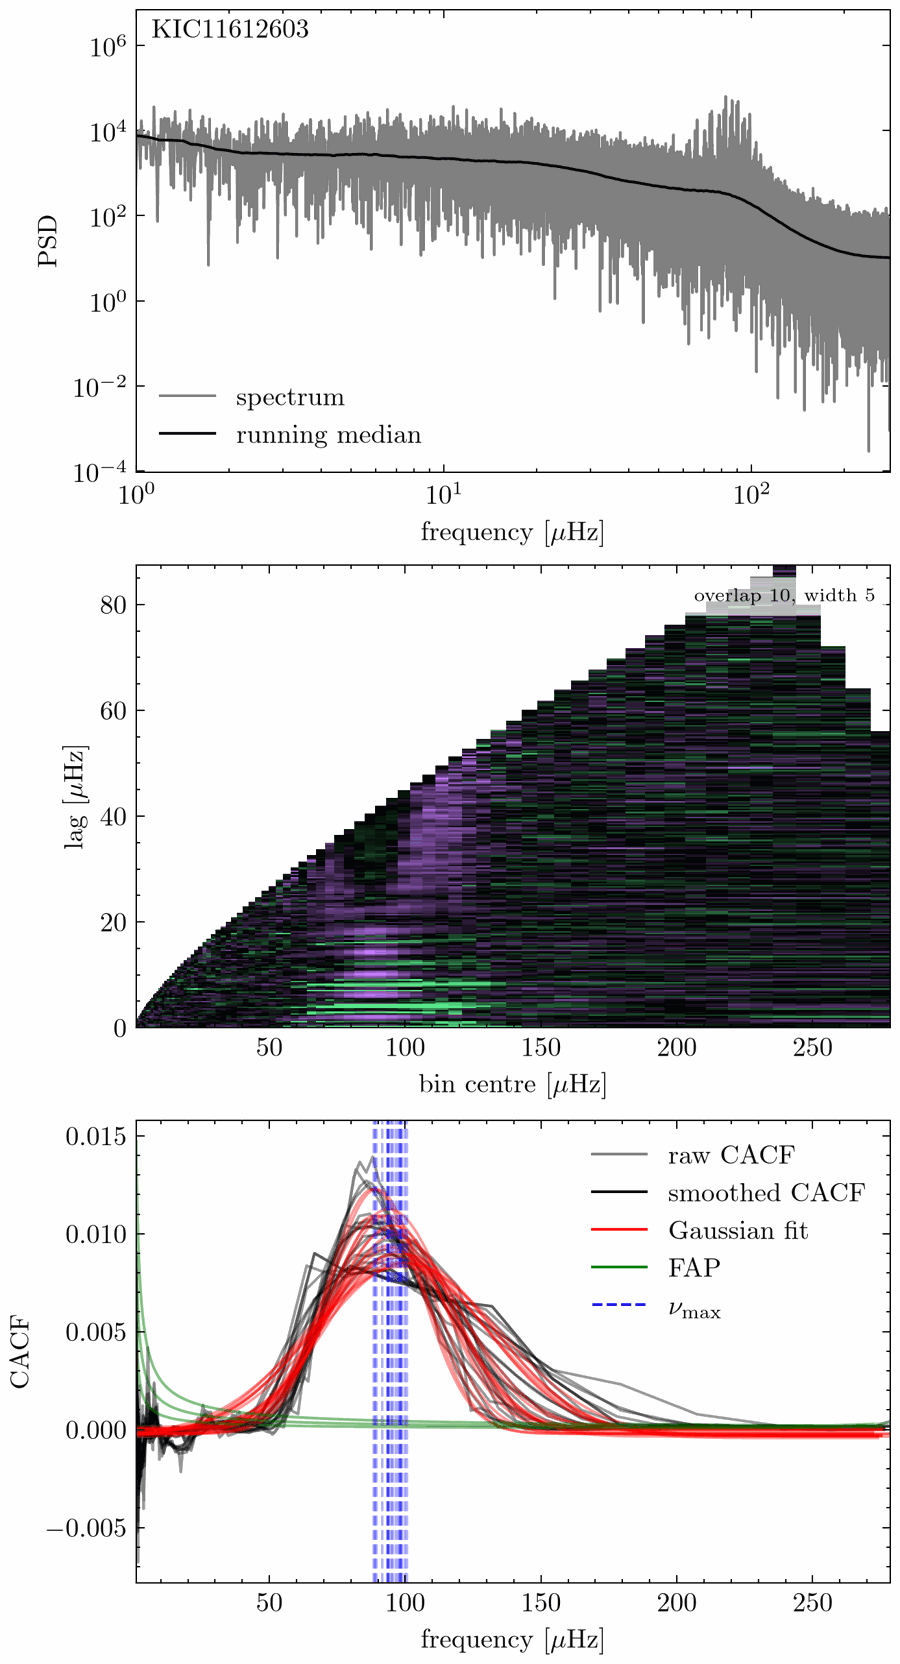
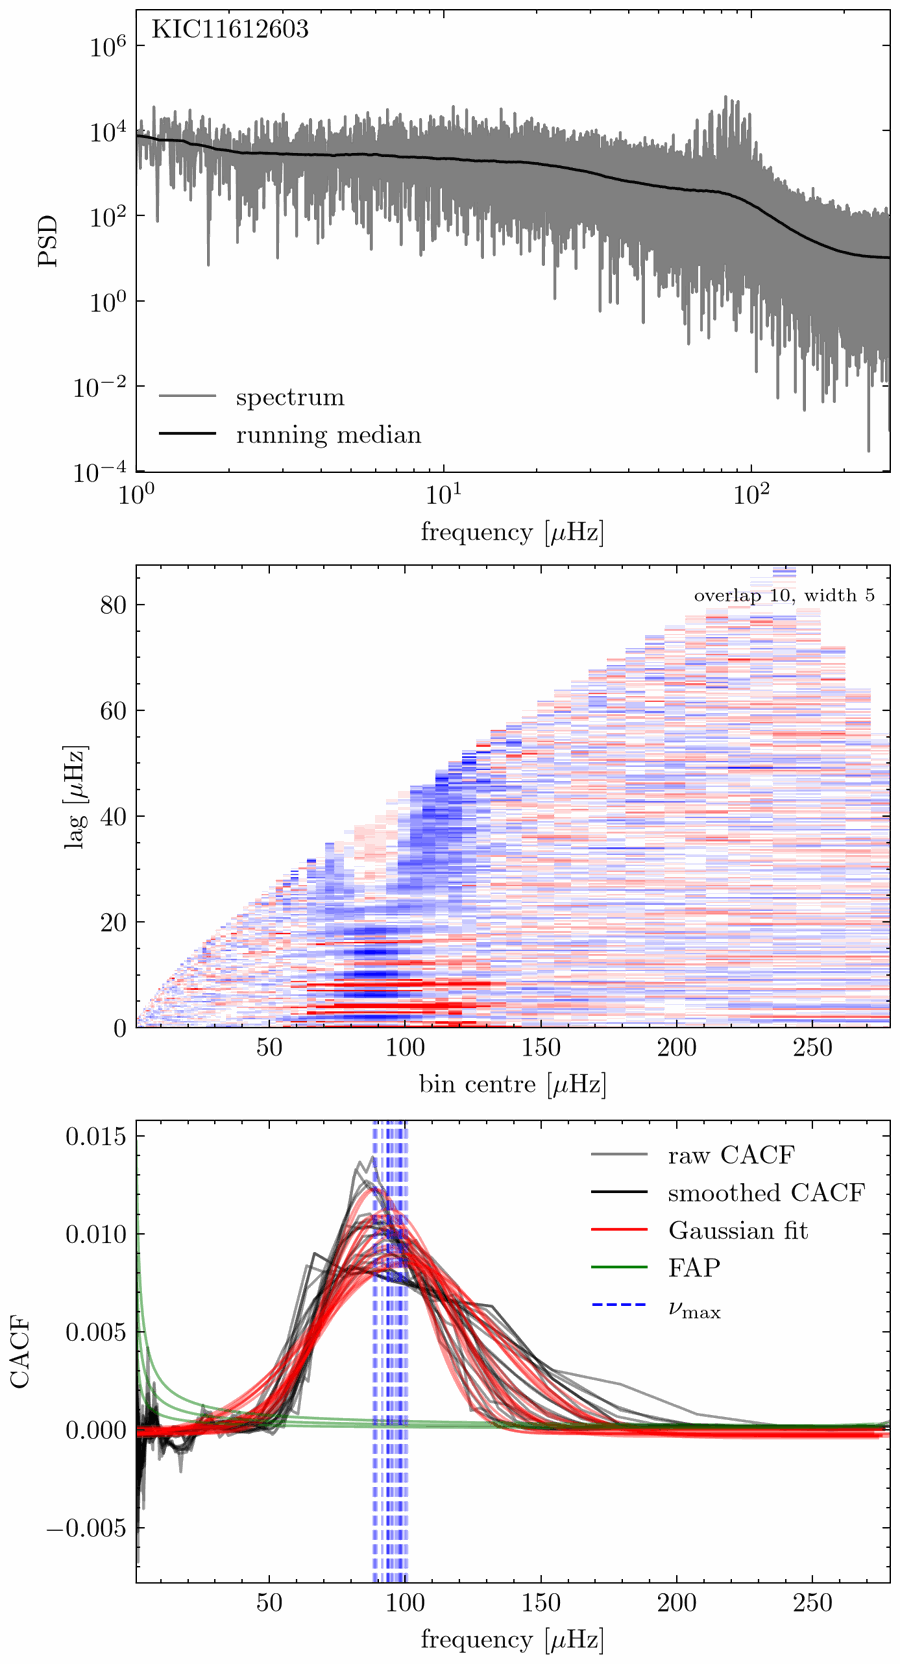
delta_nu: dnu_window_mode (relative | fixed band widths); 2D ACF back to bwr
- dnu_window_mode "fixed": band m covers (m +- dnu_window) Delta-nu, the same width for
  every band; "relative" (default): (1 +- dnu_window) m Delta-nu
- band_edges() shared by the lag ranges and the plot
- 2D ACF colour map bwr; band edges dotted in black
- README example figures regenerated

Changed region(s): [[0.1556, 0.3438, 0.9956, 0.625]]

diff --git a/src/numax_proxies/methods/acf.py b/src/numax_proxies/methods/acf.py
@@ -132,24 +132,43 @@ def cacf_delta_nu_in_windows(power, idx_start, idx_end, k_lo, k_hi):
     return stat, null_mean, null_sd
 
 
-def delta_nu_lag_ranges(centres, frequency, window, multiples):
-    """Lag bands within +- window x m x Delta-nu(bin centre) of m x Delta-nu.
+def band_edges(multiples, window, mode="relative"):
+    """Lower and upper edge of every lag band, in units of Delta-nu(bin centre).
+
+    Args:
+        multiples: multiples m of Delta-nu.
+        window: half-width; fraction of m x Delta-nu ("relative") or of Delta-nu ("fixed").
+        mode: "relative" -> (1 -+ window) m; "fixed" -> m -+ window.
+
+    Returns:
+        (lo, hi) arrays, sorted by m, before trimming of overlaps.
+    """
+    m = np.sort(np.asarray(multiples, dtype=float))
+    if mode == "fixed":
+        return m - window, m + window
+    return m * (1 - window), m * (1 + window)
+
+
+def delta_nu_lag_ranges(centres, frequency, window, multiples, mode="relative"):
+    """Lag bands around m x Delta-nu(bin centre), in frequency points.
 
     Bands that would overlap are trimmed so that no lag is in two bands.
 
     Args:
         centres: bin centres [muHz].
         frequency: frequency grid [muHz] (uniform).
-        window: half-width as a fraction of m x Delta-nu.
-        multiples: multiples m of Delta-nu (ascending).
+        window: half-width; fraction of m x Delta-nu ("relative") or of Delta-nu ("fixed").
+        multiples: multiples m of Delta-nu.
+        mode: "relative" or "fixed" (see band_edges).
 
     Returns:
-        (k_lo, k_hi), each (n_bins, n_bands), in frequency points.
+        (k_lo, k_hi), each (n_bins, n_bands).
     """
     df = frequency[1] - frequency[0]
-    dnu = delta_nu(centres)[:, None] * np.sort(np.asarray(multiples, dtype=float))[None, :]
-    k_lo = np.ceil(dnu * (1 - window) / df).astype(np.int64)
-    k_hi = np.floor(dnu * (1 + window) / df).astype(np.int64)
+    lo, hi = band_edges(multiples, window, mode)
+    dnu = delta_nu(centres)[:, None]
+    k_lo = np.ceil(dnu * lo[None, :] / df).astype(np.int64)
+    k_hi = np.floor(dnu * hi[None, :] / df).astype(np.int64)
     k_hi[:, :-1] = np.minimum(k_hi[:, :-1], k_lo[:, 1:] - 1)      # no shared lags
     return np.ascontiguousarray(k_lo), np.ascontiguousarray(k_hi)
 
@@ -236,7 +255,7 @@ def calculate_cacf(frequency, rel_power, cfg) -> dict:
                 extra = {"noise_mean": noise_mean}
             else:
                 k_lo, k_hi = delta_nu_lag_ranges(centres, frequency, cfg.dnu_window,
-                                                 cfg.dnu_multiples)
+                                                 cfg.dnu_multiples, cfg.dnu_window_mode)
                 stat, noise_mean, null_sd = cacf_delta_nu_in_windows(rel_power, i0, i1, k_lo, k_hi)
                 raw = stat - noise_mean
                 extra = {"noise_mean": noise_mean, "null_sd": null_sd}

diff --git a/src/numax_proxies/config.py b/src/numax_proxies/config.py
@@ -150,7 +150,9 @@ class _MethodConfig:
 class ACFConfig(_MethodConfig):
     """ACF method."""
     collapse: Literal["all_lags", "delta_nu"] = "all_lags"   # how each bin's ACF becomes one number
-    dnu_window: float = 0.1                 # delta_nu: half-width of the lag window, fraction of Delta-nu
+    dnu_window: float = 0.1                 # delta_nu: half-width of each lag band (see dnu_window_mode)
+    dnu_window_mode: Literal["relative", "fixed"] = "relative"   # relative: (1 +- w) m Delta-nu;
+                                            # fixed: (m +- w) Delta-nu, the same width for every band
     dnu_multiples: list[float] = field(default_factory=lambda: [1.0])  # delta_nu: lags at m x Delta-nu
     dnu_bands: Optional[int] = None         # delta_nu: B -> bands at m = 0.5, 1.0, ..., 0.5 B
                                             # (overrides dnu_multiples); bands beyond a bin are skipped
@@ -172,8 +174,13 @@ class ACFConfig(_MethodConfig):
         self.dnu_multiples = sorted(float(m) for m in np.atleast_1d(self.dnu_multiples))
         if not 0 < self.dnu_window < 1 or any(m <= 0 for m in self.dnu_multiples):
             raise ValueError("dnu_window must be in (0, 1) and dnu_multiples positive")
+        if self.dnu_window_mode not in ("relative", "fixed"):
+            raise ValueError("dnu_window_mode must be 'relative' or 'fixed'")
+        if self.dnu_window_mode == "fixed" and self.dnu_window >= min(self.dnu_multiples):
+            raise ValueError("dnu_window_mode 'fixed': dnu_window must be < the smallest multiple")
         if self.collapse == "delta_nu":
-            needed = (1 + self.dnu_window) * min(self.dnu_multiples)
+            needed = (min(self.dnu_multiples) + self.dnu_window if self.dnu_window_mode == "fixed"
+                      else (1 + self.dnu_window) * min(self.dnu_multiples))
             too_narrow = [w for w in self.width_factor if w <= needed]
             if too_narrow:
                 warnings.warn(f"ACF collapse 'delta_nu': width_factor {too_narrow} <= {needed:.2f} "

diff --git a/src/numax_proxies/plotting.py b/src/numax_proxies/plotting.py
@@ -65,15 +65,14 @@ def _acf_map_setting(cfg, results):
     return tuple(cfg.plot_2dacf)
 
 
-# anticorrelated purple, white noise black, correlated green
-ACF_MAP_CMAP = matplotlib.colors.LinearSegmentedColormap.from_list(
-    "purple_black_green", ["#c77dff", "black", "#57e389"])
+# anticorrelated blue, white noise white, correlated red
+ACF_MAP_CMAP = "bwr"
 
 
 def plot_acf_map(ax, method):
     """Draw the 2D ACF of one grid setting into ax.
 
-    Colour: r(k) / white-noise sd, purple = anticorrelated, black = noise, green = correlated.
+    Colour: r(k) / white-noise sd, blue = anticorrelated, white = noise, red = correlated.
     Lag axis: units of Delta-nu(bin centre) for collapse delta_nu, muHz for all_lags.
 
     Args:
@@ -94,14 +93,12 @@ def plot_acf_map(ax, method):
     ax.pcolormesh(centres, lags, z, shading="nearest", cmap=ACF_MAP_CMAP, vmin=-4, vmax=4,
                   rasterized=True)
     if in_dnu:
-        ms = sorted(cfg.dnu_multiples)
-        for j, m in enumerate(ms):
-            hi = m * (1 + cfg.dnu_window)
-            if j + 1 < len(ms):                                  # trimmed like the lag bands
-                hi = min(hi, ms[j + 1] * (1 - cfg.dnu_window))
-            for edge in (m * (1 - cfg.dnu_window), hi):
-                if edge < factor:
-                    ax.axhline(edge, c="w", ls=":", lw=0.8)
+        from .methods.acf import band_edges
+        lo, hi = band_edges(cfg.dnu_multiples, cfg.dnu_window, cfg.dnu_window_mode)
+        hi[:-1] = np.minimum(hi[:-1], lo[1:])                    # trimmed like the lag bands
+        for edge in np.concatenate([lo, hi]):
+            if edge < factor:
+                ax.axhline(edge, c="k", ls=":", lw=0.8)
         ax.set(ylabel=r"lag [$\Delta\nu(\nu_c)$]", ylim=(0, factor))
     else:
         ax.set(ylabel=r"lag [$\mu$Hz]", ylim=(0, lags[-1]))

diff --git a/tests/test_acf_delta_nu.py b/tests/test_acf_delta_nu.py
@@ -86,3 +86,22 @@ def test_white_noise_calibration_with_bands(rng):
     z = np.concatenate(z_all)
     assert abs(np.mean(z)) < 0.1
     assert abs(np.std(z) - 1) < 0.1
+
+
+def test_fixed_bands_have_equal_width(kepler_grid):
+    """dnu_window_mode 'fixed': every band is m +- window Delta-nu wide, never overlapping."""
+    from numax_proxies.methods.acf import band_edges
+
+    lo, hi = band_edges([0.5, 1.0, 1.5, 4.0], 0.1, "fixed")
+    np.testing.assert_allclose(hi - lo, 0.2)
+    np.testing.assert_allclose(lo, [0.4, 0.9, 1.4, 3.9])
+    centres, _, _ = log_numax_bins(kepler_grid, 20.0, None, 5.0, 5.0)
+    k_lo, k_hi = delta_nu_lag_ranges(centres, kepler_grid, 0.1, [0.5 * b for b in range(1, 9)], "fixed")
+    width = k_hi - k_lo
+    assert np.all(np.abs(width - width[:, :1]) <= 1)            # same width for every band
+    assert np.all(k_hi[:, :-1] < k_lo[:, 1:])
+    with pytest.raises(ValueError):
+        config_from_dict({"ACF_CONFIG": {"dnu_window_mode": "absolute"}})
+    with pytest.raises(ValueError):                              # window wider than the first band
+        config_from_dict({"ACF_CONFIG": {"dnu_window_mode": "fixed", "dnu_window": 0.6,
+                                         "dnu_bands": 2}})

diff --git a/README.md b/README.md
@@ -120,8 +120,9 @@ Bins follow the expected large separation, Δν(ν) = 0.267 ν<sup>0.764</sup> (
   * `all_lags` (default): mean |r(k)| over all lags 1 … n−1 (Viani's MCC) minus μ<sub>0</sub>(n).
     For white noise mean |r| ≈ 0.53/√n; μ<sub>0</sub>(n) is taken from the simulations behind the
     FAP tables.
-  * `delta_nu`: r(k), signed, averaged over the lags within ±`dnu_window`·m·Δν(ν<sub>c</sub>) of
-    m·Δν(ν<sub>c</sub>) (how strongly the spectrum repeats at the Δν expected if ν<sub>max</sub>
+  * `delta_nu`: r(k), signed, averaged over the lags in a band around m·Δν(ν<sub>c</sub>):
+    (1 ± `dnu_window`)·m·Δν (`dnu_window_mode: relative`, default) or
+    (m ± `dnu_window`)·Δν (`fixed`, the same width for every band) (how strongly the spectrum repeats at the Δν expected if ν<sub>max</sub>
     were at the bin centre), minus its white-noise mean. One band per m in `dnu_multiples`
     (default [1]); `dnu_bands: B` uses all bands m = 0.5, 1, …, 0.5 B (the ridges spaced Δν/2 in
     the 2D ACF). Each band's mean has equal weight; bands that would overlap are trimmed, bands
@@ -166,7 +167,7 @@ The error is the median of the formal fit errors, which are too small.
 ACF (default `collapse: all_lags`, with the 2D ACF panel, `plot_2dacf: [10, 5]`) and CoV of a red
 giant and a main-sequence star, for widths 3, 5, 10, overlaps 5, 10 and smoothing factors
 0.5, 1, 1.5, with `significance_at_numax: true`. Each line is one grid setting; dashed lines are the fitted ν<sub>max</sub>.
-In the 2D ACF, green is correlated, black is white noise and purple is anticorrelated; for
+In the 2D ACF, red is correlated, white is white noise and blue is anticorrelated; for
 `all_lags` the lag axis is in µHz (for `delta_nu` in units of Δν(ν<sub>c</sub>), with the lag
 bands dotted).
 
@@ -225,7 +226,8 @@ Relative input paths are resolved relative to the YAML file. See
 | replace_below_min_freq | true | white noise below min_freq |
 | FAP_threshold | 95p0 | 95p0 or 99p0 (per bin) |
 | collapse | all_lags | ACF only: `all_lags` or `delta_nu` |
-| dnu_window, dnu_multiples | 0.1, [1] | ACF `delta_nu`: lag window (fraction of m·Δν), multiples m of Δν |
+| dnu_window, dnu_multiples | 0.1, [1] | ACF `delta_nu`: band half-width (see `dnu_window_mode`), multiples m of Δν |
+| dnu_window_mode | relative | ACF `delta_nu`: `relative` (1 ± w)·m·Δν, or `fixed` (m ± w)·Δν |
 | dnu_bands | null | ACF `delta_nu`: B → bands at m = 0.5, 1, …, 0.5 B (overrides `dnu_multiples`) |
 | plot_2dacf | false | ACF only: 2D ACF panel in ACF.png (lag vs bin centre; lag in Δν(ν<sub>c</sub>) for `delta_nu`, in µHz for `all_lags`); `true` = first grid setting, or `[overlap_scale, width_factor]` |
 | significance_at_numax | false | true: a significant bin must lie within 1 FWHM of the fitted numax |
